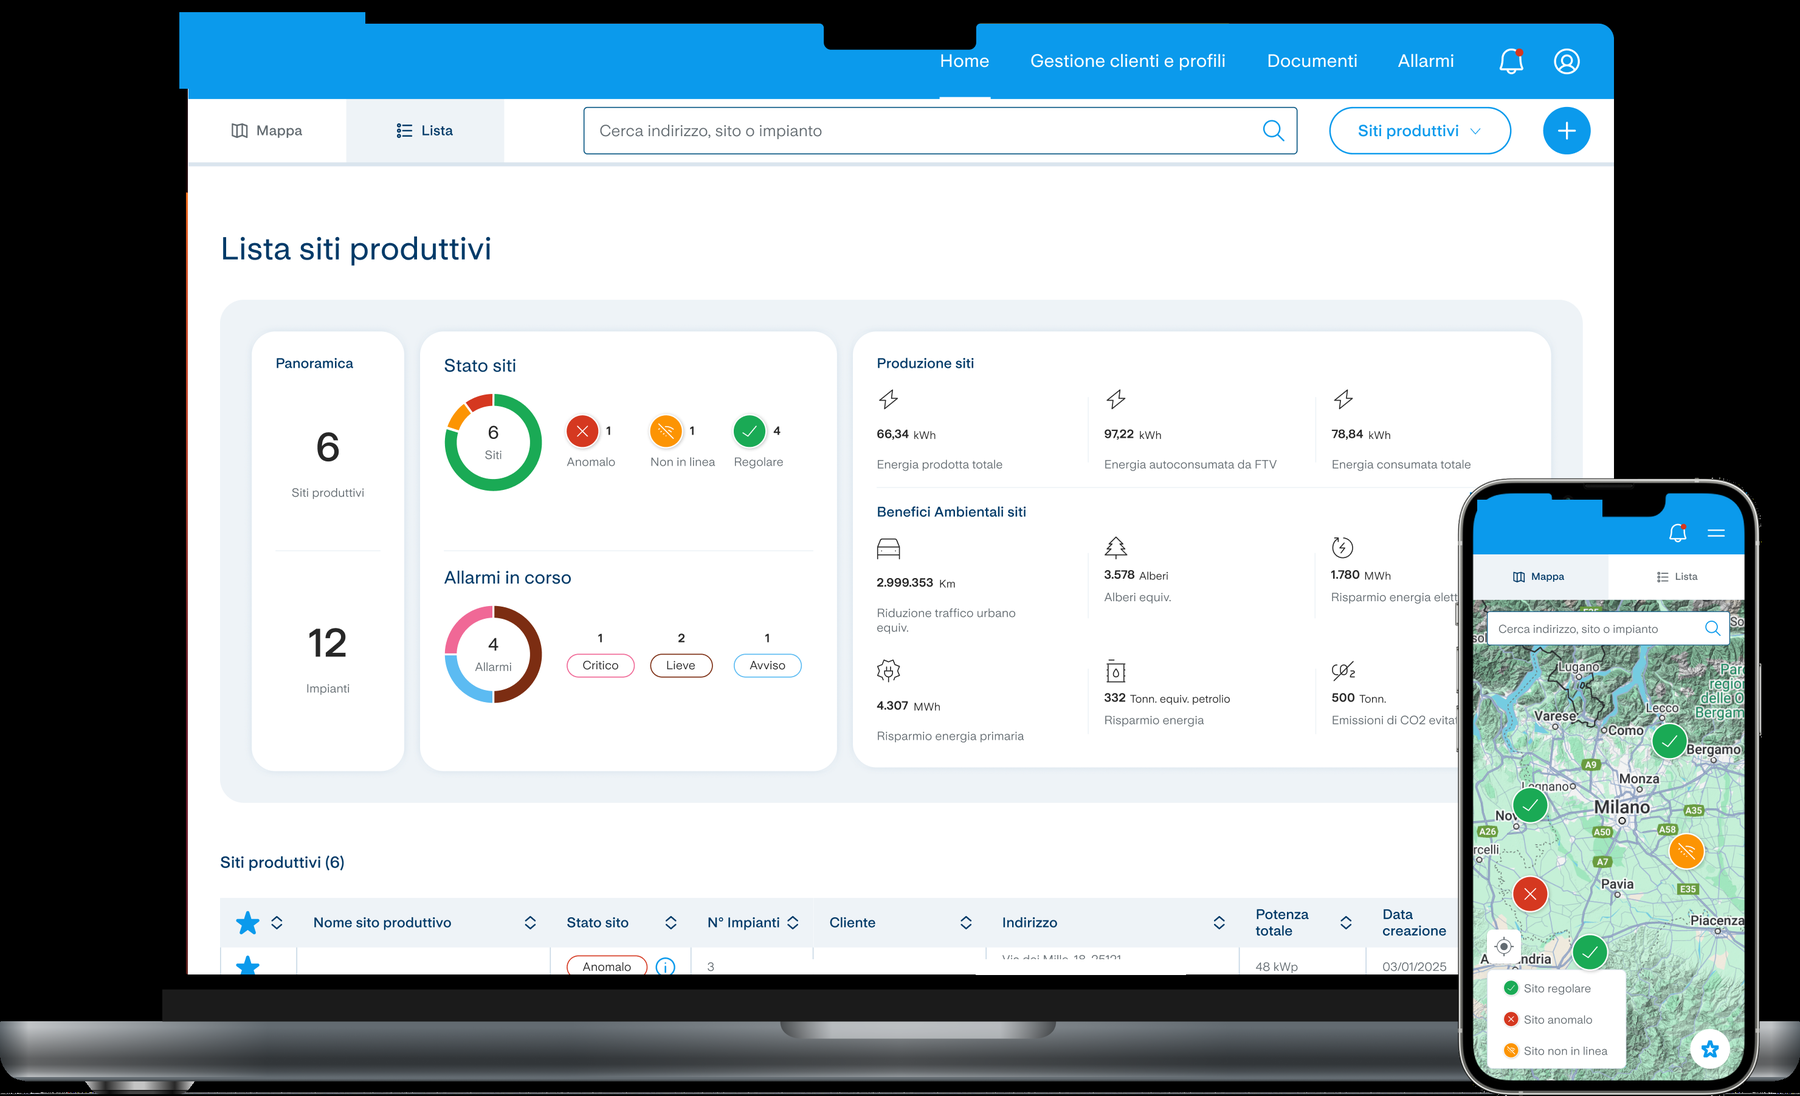
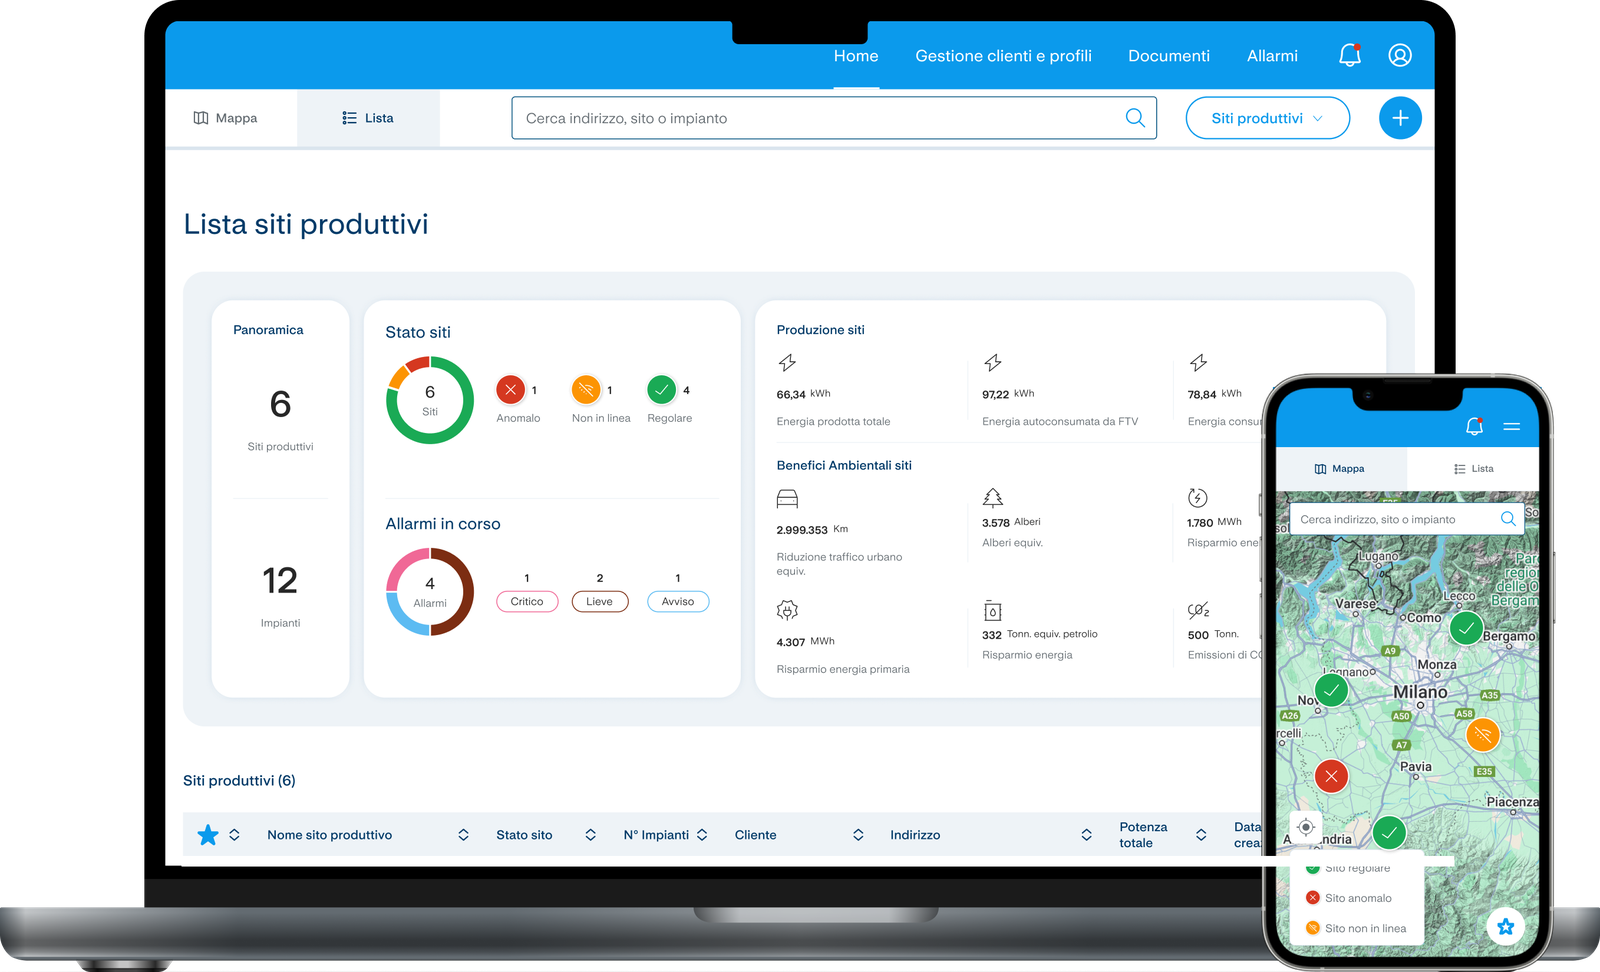
Use real transparent laptop+phone mockup for case study cover
Preserves the source composite's native alpha channel (no reconstructed
background), redacts the one identifying table row, and switches the
hero image to object-fit: contain so the floating device mockup isn't
cropped by the 2:1 hero frame.

diff --git a/css/styles.css b/css/styles.css
@@ -1006,7 +1006,7 @@ footer {
   margin-bottom: 8px;
 }
 
-.case-hero-image img { width: 100%; height: 100%; object-fit: cover; }
+.case-hero-image img { width: 100%; height: 100%; object-fit: contain; }
 
 .case-hero-image.is-device-demo {
   background: linear-gradient(155deg, var(--color-accent-soft), var(--color-primary-light));